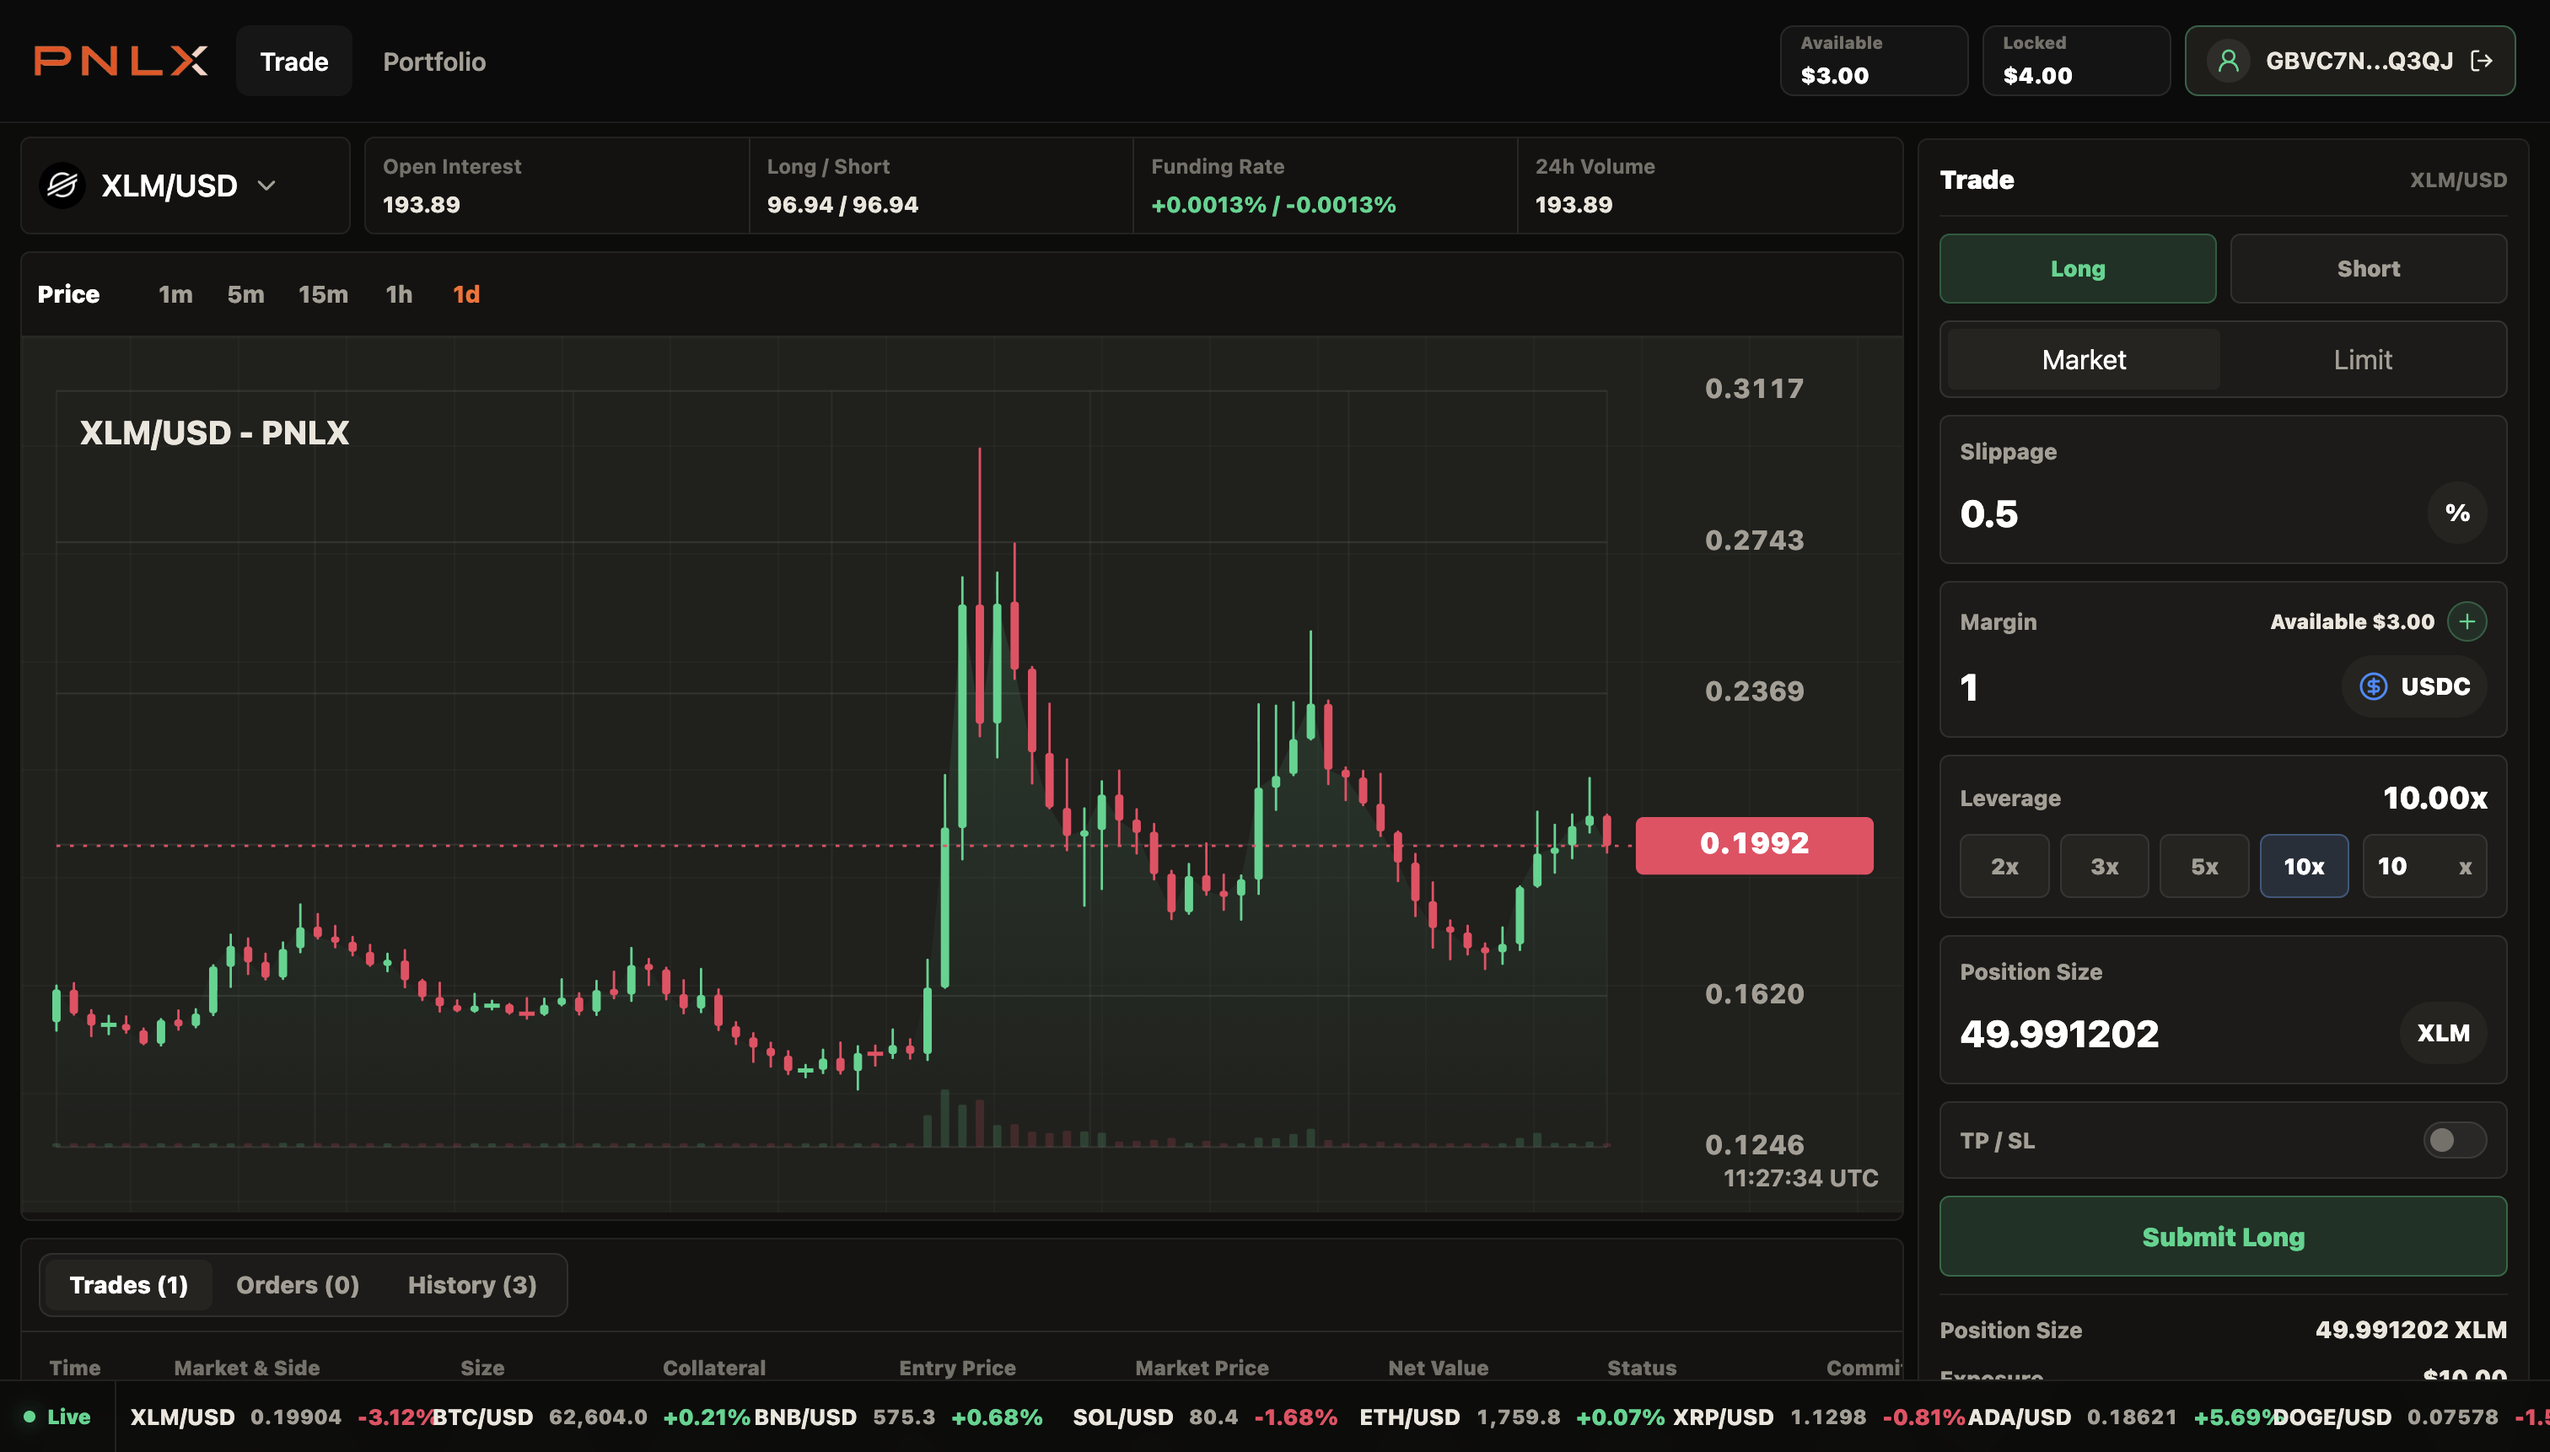
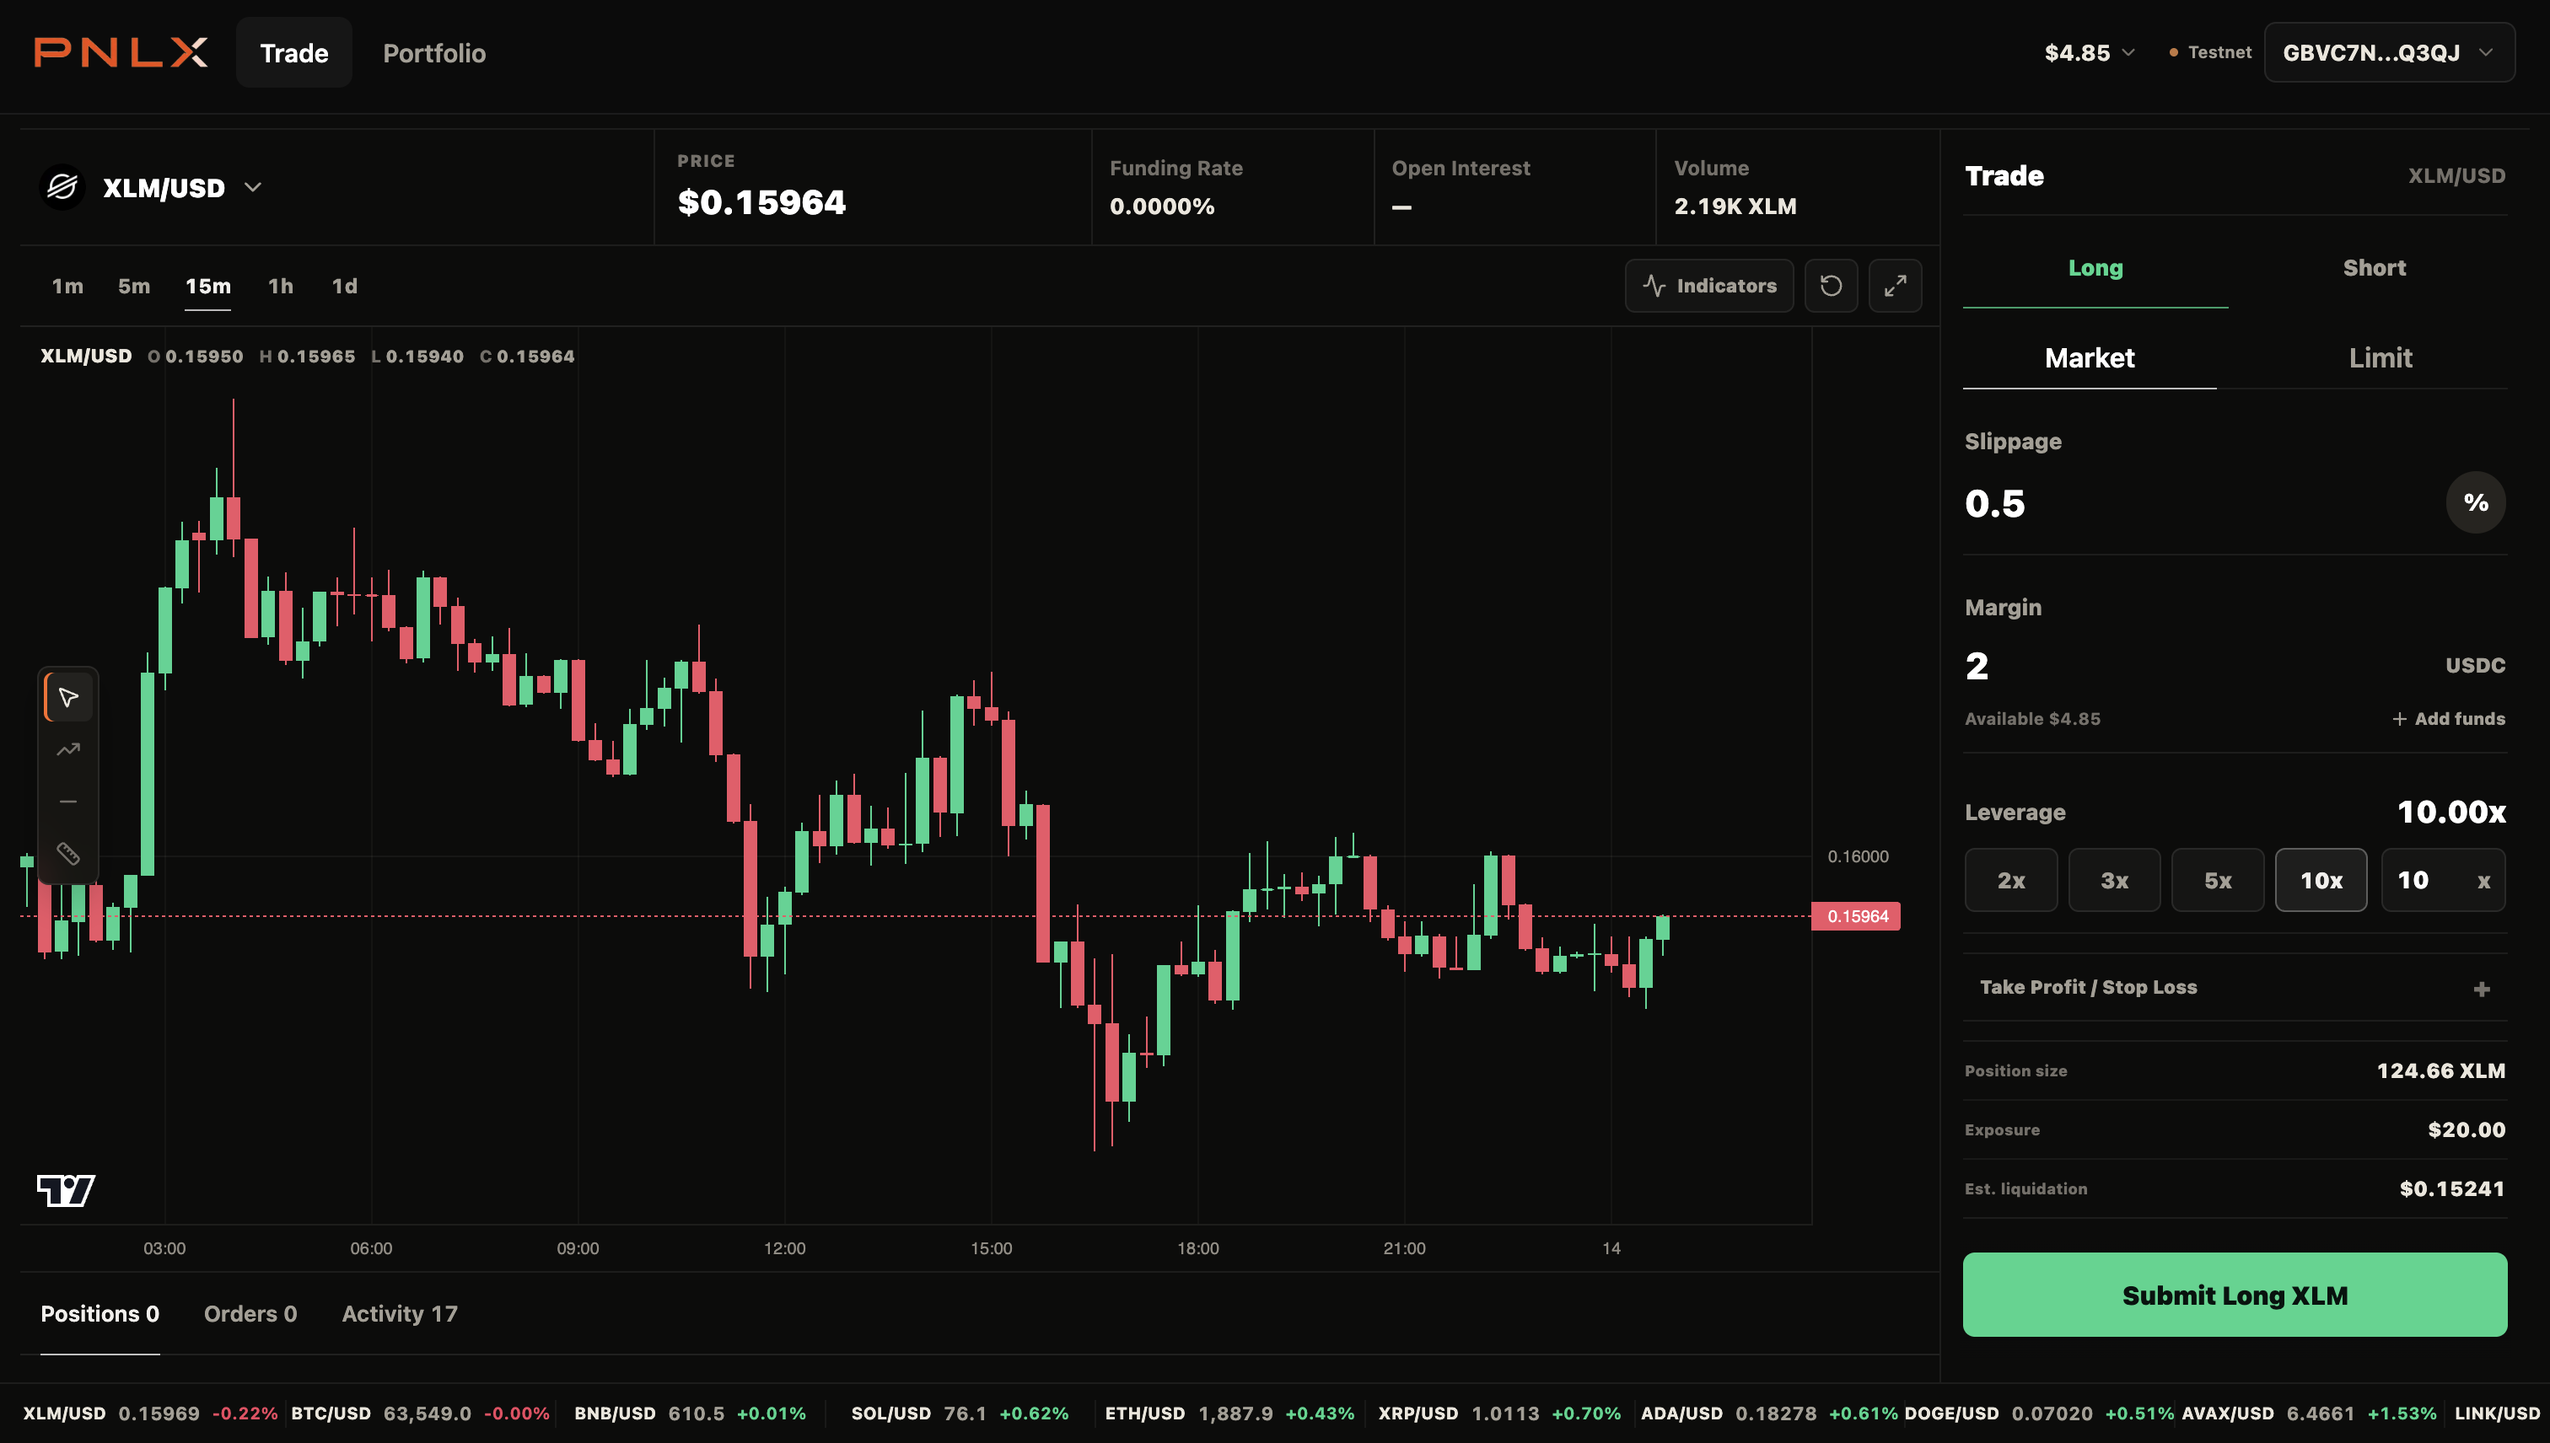
feat: refine trade confirmations

diff --git a/client/src/components/portfolio-route.tsx b/client/src/components/portfolio-route.tsx
@@ -1,13 +1,14 @@
 "use client";
 
 import { useCallback, useMemo, useState } from "react";
+import { ActionToast } from "@/components/action-toast";
 import { AppShell } from "@/components/app-shell";
 import { BottomTicker } from "@/components/bottom-ticker";
 import { ManageFundsModal, type ManageFundsBalance } from "@/components/manage-funds-modal";
 import { PortfolioPage } from "@/components/portfolio-page";
 import { PositionCloseDialog } from "@/components/position-close-dialog";
 import { protocolUsdcToDisplay } from "@/lib/asset-units";
-import { formatUsd, shortAddress } from "@/lib/format";
+import { formatUsd } from "@/lib/format";
 import { withdrawPrivateMarginNote } from "@/lib/collateral-withdraw";
 import { cancelOrder } from "@/lib/order-cancel";
 import { closePosition } from "@/lib/position-close";
@@ -86,7 +87,7 @@ export function PortfolioRoute() {
         txHash: record.txHash,
       });
 
-      setPositionActionMessage({ tone: "success", text: `Closed ${shortAddress(record.positionCommitment)}` });
+      setPositionActionMessage({ tone: "success", text: "Position closed" });
       setPendingClosePosition(null);
       setRefreshKey((value) => value + 1);
     } catch (error) {
@@ -118,7 +119,7 @@ export function PortfolioRoute() {
       });
       setPositionActionMessage({
         tone: "success",
-        text: `Cancelled ${shortAddress(cancelled.intentCommitment)}`,
+        text: "Order cancelled",
       });
       setRefreshKey((value) => value + 1);
     } catch (error) {
@@ -203,7 +204,7 @@ export function PortfolioRoute() {
   return (
     <AppShell account={trading.data.account} activeView="portfolio" wallet={wallet}>
       <PortfolioPage
-        actionMessage={positionActionMessage}
+        actionMessage={positionActionMessage?.tone === "error" ? positionActionMessage : undefined}
         cancellingOrderId={cancellingOrderId}
         closingPositionId={closingPositionId}
         connected={Boolean(wallet.session)}
@@ -224,7 +225,7 @@ export function PortfolioRoute() {
         available={trading.data.account.availableShieldedUsdc ?? 0}
         depositing={depositingCollateral}
         isOpen={manageFundsOpen}
-        message={positionActionMessage}
+        message={positionActionMessage?.tone === "error" ? positionActionMessage : undefined}
         notes={withdrawableNotes}
         onClose={() => {
           if (!depositingCollateral && !withdrawingCollateral) setManageFundsOpen(false);
@@ -242,6 +243,12 @@ export function PortfolioRoute() {
         }}
         onConfirm={handleClosePosition}
         position={pendingClosePosition}
+      />
+      <ActionToast
+        message={positionActionMessage?.tone === "success" ? positionActionMessage.text : undefined}
+        onDismiss={() => {
+          setPositionActionMessage((current) => current?.tone === "success" ? undefined : current);
+        }}
       />
     </AppShell>
   );

diff --git a/client/src/components/order-ticket.tsx b/client/src/components/order-ticket.tsx
@@ -3,7 +3,8 @@
 import { motion } from "framer-motion";
 import { ArrowLeft, CircleDollarSign, Plus } from "lucide-react";
 import { useEffect, useMemo, useState } from "react";
-import { formatNumber, formatUsd, shortAddress } from "@/lib/format";
+import { ActionToast } from "@/components/action-toast";
+import { formatNumber, formatUsd } from "@/lib/format";
 import type { SubmitTradeIntentResult, TradeSubmitStage } from "@/lib/trade-submit";
 import type { MarketDisplay, OrderDraft, Side } from "@/types/trading";
 import type { WalletSession } from "@/lib/wallet-auth";
@@ -101,12 +102,6 @@ export function OrderTicket({
   }, [margin, market.marketId]);
 
   useEffect(() => {
-    if (!submitSuccess || submitting || depositing) return;
-    const timer = window.setTimeout(() => setSubmitSuccess(undefined), 3_500);
-    return () => window.clearTimeout(timer);
-  }, [depositing, submitSuccess, submitting]);
-
-  useEffect(() => {
     if (!submitError || submitting || depositing) return;
     const timer = window.setTimeout(() => setSubmitError(undefined), 5_000);
     return () => window.clearTimeout(timer);
@@ -174,7 +169,7 @@ export function OrderTicket({
     setSubmitStage("hashing");
     setSubmitting(true);
     try {
-      const result = await onSubmit({
+      await onSubmit({
         collateralAsset: order.collateralAsset,
         leverage,
         limitPrice: executionLimitPrice,
@@ -187,11 +182,7 @@ export function OrderTicket({
         takeProfitPrice: tpSlEnabled ? takeProfitPrice : null,
       });
       setSubmitStage(undefined);
-      setSubmitSuccess(
-        result.intents.length > 1
-          ? `Submitted ${result.intents.length} private order fragments`
-          : `Submitted ${shortAddress(result.intent.intentCommitment)}`,
-      );
+      setSubmitSuccess("Order submitted");
     } catch (error) {
       setSubmitStage(undefined);
       setSubmitError(error instanceof Error ? error.message : "Trade submission failed");
@@ -314,7 +305,6 @@ export function OrderTicket({
               {submitError}
             </p>
           ) : null}
-          {submitSuccess ? <p className="ticket-message ticket-message-success">{submitSuccess}</p> : null}
         </>
       ) : (
         <>
@@ -552,10 +542,9 @@ export function OrderTicket({
           {submitError}
         </p>
       ) : null}
-      {submitSuccess ? <p className="ticket-message ticket-message-success">{submitSuccess}</p> : null}
-
         </>
       )}
+      <ActionToast message={submitSuccess} onDismiss={() => setSubmitSuccess(undefined)} />
     </section>
   );
 }

diff --git a/client/src/components/trading-page.tsx b/client/src/components/trading-page.tsx
@@ -1,6 +1,7 @@
 "use client";
 
 import { useCallback, useEffect, useMemo, useRef, useState } from "react";
+import { ActionToast } from "@/components/action-toast";
 import { AppShell } from "@/components/app-shell";
 import { BottomTicker } from "@/components/bottom-ticker";
 import { ChartToolbar } from "@/components/chart-toolbar";
@@ -10,7 +11,6 @@ import { PnlModal, type PnlModalProps } from "@/components/pnl-modal";
 import { PositionsTable, type PositionsTableView } from "@/components/positions-table";
 import { PriceChart, type PriceChartHandle } from "@/components/price-chart";
 import type { ChartIndicatorId } from "@/lib/chart-indicators";
-import { shortAddress } from "@/lib/format";
 import { cancelOrder } from "@/lib/order-cancel";
 import { closePosition } from "@/lib/position-close";
 import { reconcilePrivateMarginNotes } from "@/lib/private-margin-notes";
@@ -145,7 +145,7 @@ export function TradingPage() {
 
       setPositionActionMessage({
         tone: "success",
-        text: `Closed ${shortAddress(record.positionCommitment)}`,
+        text: "Position closed",
       });
       setTableView("positions");
       setRefreshKey((value) => value + 1);
@@ -188,7 +188,7 @@ export function TradingPage() {
       });
       setPositionActionMessage({
         tone: "success",
-        text: `Cancelled ${shortAddress(cancelled.intentCommitment)}`,
+        text: "Order cancelled",
       });
       setTableView("orders");
       setRefreshKey((value) => value + 1);
@@ -329,7 +329,7 @@ export function TradingPage() {
 
         <div className="positions-workspace">
           <PositionsTable
-            actionMessage={positionActionMessage}
+            actionMessage={positionActionMessage?.tone === "error" ? positionActionMessage : undefined}
             activity={trading.data.activity}
             activeView={tableView}
             cancellingOrderId={cancellingOrderId}
@@ -349,6 +349,12 @@ export function TradingPage() {
         isOpen={Boolean(pnlModalData)}
         onClose={() => setPnlModalData(null)}
         {...pnlModalData!}
+      />
+      <ActionToast
+        message={positionActionMessage?.tone === "success" ? positionActionMessage.text : undefined}
+        onDismiss={() => {
+          setPositionActionMessage((current) => current?.tone === "success" ? undefined : current);
+        }}
       />
     </AppShell>
   );

diff --git a/client/src/app/globals.css b/client/src/app/globals.css
@@ -1384,15 +1384,51 @@ button:disabled {
   color: var(--accent-red);
 }
 
-.ticket-message-success {
-  border-color: rgba(39, 214, 139, 0.24);
-  color: var(--accent-green);
-}
-
 .ticket-message-status {
   min-height: 38px;
   border-color: rgba(255, 255, 255, 0.08);
   color: var(--text-muted);
+}
+
+.action-toast {
+  position: fixed;
+  right: 18px;
+  bottom: 52px;
+  z-index: 10000;
+  display: inline-flex;
+  min-height: 42px;
+  align-items: center;
+  gap: 9px;
+  border: 1px solid var(--line);
+  border-radius: 8px;
+  background: #121312;
+  box-shadow: 0 12px 28px rgba(0, 0, 0, 0.3);
+  padding: 0 14px 0 11px;
+  color: var(--text-primary);
+  font-size: 13px;
+  font-weight: 700;
+  animation: action-toast-enter 160ms ease-out both;
+}
+
+.action-toast-icon {
+  display: grid;
+  width: 22px;
+  height: 22px;
+  place-items: center;
+  border-radius: 50%;
+  background: rgba(121, 184, 159, 0.12);
+  color: #79b89f;
+}
+
+@keyframes action-toast-enter {
+  from {
+    opacity: 0;
+    transform: translateY(6px);
+  }
+  to {
+    opacity: 1;
+    transform: translateY(0);
+  }
 }
 
 .ticket-summary {
@@ -1443,10 +1479,6 @@ button:disabled {
 
 .positions-action-message-error {
   color: var(--accent-red);
-}
-
-.positions-action-message-success {
-  color: var(--accent-green);
 }
 
 .positions-table {
@@ -3906,6 +3938,13 @@ button:disabled {
 }
 
 @media (max-width: 640px) {
+  .action-toast {
+    right: 12px;
+    bottom: 48px;
+    left: 12px;
+    justify-content: center;
+  }
+
   .app-header-inner {
     position: relative;
     min-height: 60px;
@@ -4208,10 +4247,6 @@ button:disabled {
 
 .portfolio-action-message-error {
   color: #dc7882;
-}
-
-.portfolio-action-message-success {
-  color: #79b89f;
 }
 
 .portfolio-ledger {

diff --git a/client/src/components/action-toast.tsx b/client/src/components/action-toast.tsx
@@ -1,0 +1,35 @@
+"use client";
+
+import { Check } from "lucide-react";
+import { useEffect, useRef } from "react";
+
+interface ActionToastProps {
+  durationMs?: number;
+  message?: string;
+  onDismiss: () => void;
+}
+
+export function ActionToast({ durationMs = 3_500, message, onDismiss }: ActionToastProps) {
+  const onDismissRef = useRef(onDismiss);
+
+  useEffect(() => {
+    onDismissRef.current = onDismiss;
+  }, [onDismiss]);
+
+  useEffect(() => {
+    if (!message) return;
+    const timer = window.setTimeout(() => onDismissRef.current(), durationMs);
+    return () => window.clearTimeout(timer);
+  }, [durationMs, message]);
+
+  if (!message) return null;
+
+  return (
+    <div aria-live="polite" className="action-toast" role="status">
+      <span aria-hidden="true" className="action-toast-icon">
+        <Check size={15} strokeWidth={2.2} />
+      </span>
+      <span>{message}</span>
+    </div>
+  );
+}

diff --git a/client/src/components/landing/sections/hero.tsx b/client/src/components/landing/sections/hero.tsx
@@ -28,7 +28,7 @@ export function LandingHero() {
       </div>
 
       <div className="landing-app-preview landing-trade-ui-preview" aria-label="PNLX trading interface preview">
-        <Image alt="PNLX trading interface" height={1718} priority src="/trade-ui.png" width={3024} />
+        <Image alt="PNLX trading interface" height={1712} priority src="/trade-ui.png" width={3024} />
       </div>
     </section>
   );
